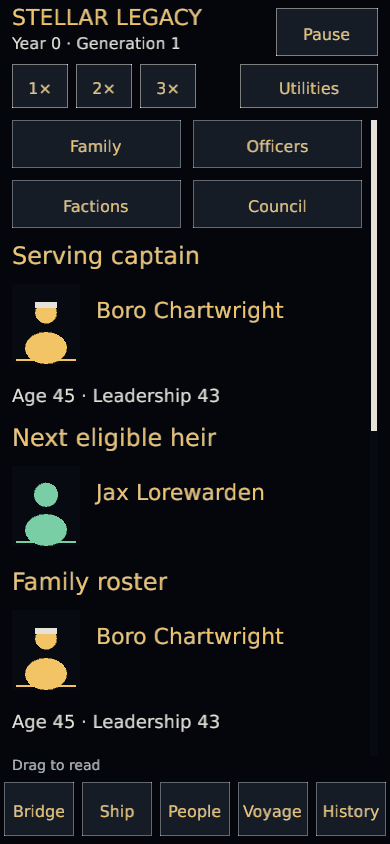
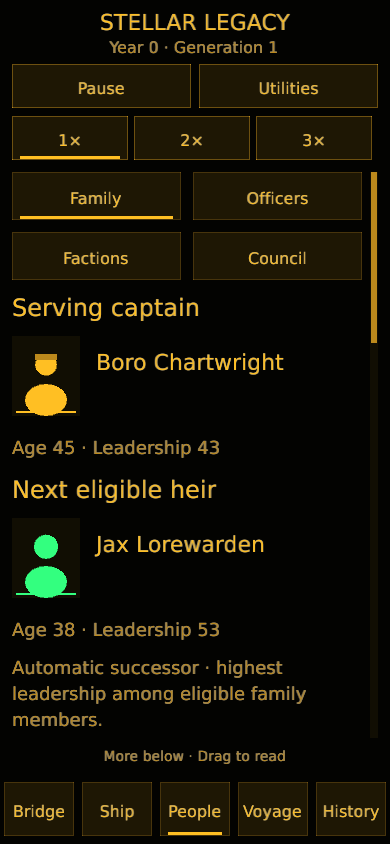
The family remembers who has been named to the chair (compact heir selection)
The compact roster kept offering Name heir after designation and omitted
the reason for the planned successor. Show age, leadership, automatic or
named status, eligibility guidance and persistent current-heir feedback.
Include specialization and trait so the roster matches the desktop detail.

Phone captures and the live designation route verify the visible choice.
Clippy and source-size checks pass. publish.ps1 passed Windows and WebGL
packaging, Preview deployment and packaged runtime smoke checks.

diff --git a/src/ui/mobile/people.rs b/src/ui/mobile/people.rs
@@ -123,19 +123,46 @@ pub(super) fn build(ctx: &GameplayCtx<'_>, f: &mut Form, section: &str) {
                 crate::simulation::succession::planned_heir(&sim.dynasty, &ctx.data.config)
             {
                 f.portrait(&p.name);
+                f.text(&format!("Age {} · Leadership {}", p.age, p.leadership));
+                f.text(if sim.dynasty.designated_heir == Some(p.id) {
+                    "Named heir · the council's choice for the next captain."
+                } else {
+                    "Automatic successor · highest leadership among eligible family members."
+                });
             } else {
                 f.text("No eligible successor.");
             }
             f.heading("Family roster");
+            f.text(&format!(
+                "Tap Name heir to choose the next captain; the serving captain remains in command. Eligible ages: {}–{}. The choice must still be alive and eligible at succession.",
+                ctx.data.config.heir_min_age, ctx.data.config.heir_max_age,
+            ));
             for p in &sim.dynasty.members {
                 {
                     f.portrait(&p.name);
                     f.text(&format!("Age {} · Leadership {}", p.age, p.leadership));
+                    f.text(&format!("{} · {}", p.specialization, p.trait_name));
+                    if p.is_leader {
+                        f.text("Serving captain");
+                    } else if sim.dynasty.designated_heir == Some(p.id) {
+                        f.text("Named heir");
+                    }
                     if !p.is_leader
                         && p.age >= ctx.data.config.heir_min_age
                         && p.age <= ctx.data.config.heir_max_age
                     {
-                        f.action("Name heir", true, UiAction::SelectHeir(p.id));
+                        let named = sim.dynasty.designated_heir == Some(p.id);
+                        f.action(
+                            if named { "Current heir" } else { "Name heir" },
+                            !named,
+                            UiAction::SelectHeir(p.id),
+                        );
+                    } else if !p.is_leader {
+                        f.text(if p.age < ctx.data.config.heir_min_age {
+                            "Too young to be named heir."
+                        } else {
+                            "Outside the age range for naming an heir."
+                        });
                     }
                 }
             }

diff --git a/docs/verification/browser_interaction_notes.md b/docs/verification/browser_interaction_notes.md
@@ -63,3 +63,10 @@ after each addition. With the success-route correction, adding Schools & Archive
 training returned to Project queue, raised waiting work from 2 to 3, and named
 the added project in feedback. Pause remained active. Saved this five-project
 campaign for subsequent interaction checks. Other acceptance routes remain open.
+
+The compact Family revision showed Xan Wardhome as the automatic successor,
+with age and leadership plus the eligible 30–50 age band. Named Perr Steadfast
+from the roster and observed Named heir, a disabled Current heir control, and
+the success notice; Xan remained selectable as an alternative. Saved through
+Utilities while paused. This verifies designation feedback, not a completed
+succession or its reload boundary.

diff --git a/gdd.md b/gdd.md
@@ -263,6 +263,9 @@ from human acceptance.
 Bridge, Ship, People, Voyage and History stay in a stable order in port and underway.
 Ship contains Loadout, Systems and Agenda; People separates Family, Officers,
 Factions and Council. Voyage offers Drydock/Market in port and Contract underway.
+The compact Family view distinguishes the automatically planned successor from
+a named heir, explains the eligible age range and retains a visible current-heir
+marker after designation. Family entries include specialization and trait.
 Utilities contains Save game, Help, Display & sound and Return to menu.
 Pause/Resume and speed controls remain reachable above blocking decisions.
 Responsive and phone navigation underline the active destination and section;
